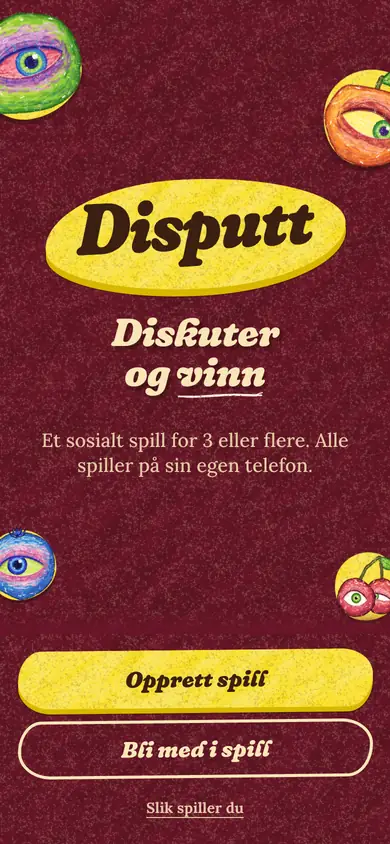
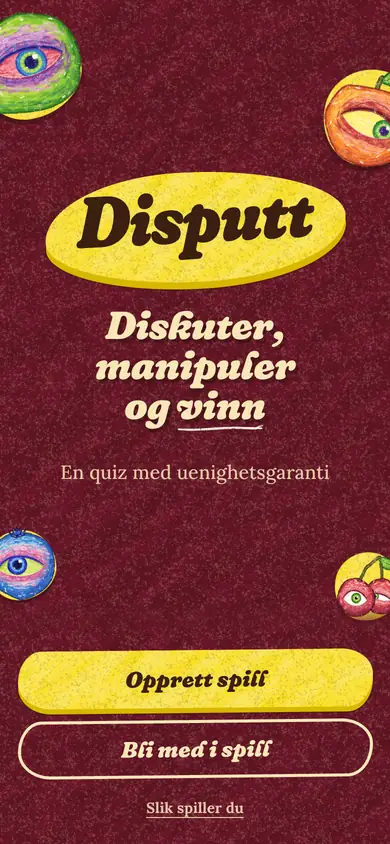
Startskjermen: «Diskuter, manipuler og vinn» og «En quiz med uenighetsgaranti»
Slagordet over knappene er nå «Diskuter, manipuler og vinn» (tre linjer, før to), og linjen under er «En quiz med uenighetsgaranti».
Setningen om at alle spiller på sin egen telefon er borte. Samme ord står i delingskortet (description, og:title og og:description i
index.html), i README og i stilguiden, og bildet av startsiden i stilguiden er tegnet på nytt. Manifestets beskrivelse er uendret.

Den tredje linjen kostet 38 px. På 375×553 sto linjen under slagordet bare 4 px over bunnlinjen (16 før), inne i fade-en. Under 580 px
høyde er slagordet derfor litt mindre (clamp(1.9rem, 8.6vw, 2.4rem)), og da er det 22 px igjen. På 390×664 er det 58 px, og ingenting
annet er endret.

npm run qa:fit har nå startskjermen med (den var ikke med før). Reglene i CSS-en ble tatt bort i en kopi: da feiler sjekken på 375×553
(2 px under bunnlinjen), og med dem består den på alle fire størrelsene. play.mjs, stuck.mjs og payflow.mjs venter på startskjermen ved
å lete etter slagordet, og leter nå etter det nye.

Kjørt: alle tester (244), qa:fit, qa:overlap på 390×664 og 375×553 (724 skjermer, bunnlinjene er fortsatt ugjennomsiktige), play:p2p,
play:pay, play:subpath og qa:stuck.

Changed region(s): [[0.0923, 0.1848, 0.8923, 0.5853], [0.8923, 0.7085, 0.9846, 0.7393]]

diff --git a/public/design-system/index.html b/public/design-system/index.html
@@ -129,7 +129,7 @@
       <div class="ds-type"><span class="ds-label">H1<br><code>--fs-h1</code></span><h1>Hvem er du?</h1></div>
       <div class="ds-type"><span class="ds-label">H2<br><code>--fs-h2</code></span><h2>Gruppa hadde rett!</h2></div>
       <div class="ds-type"><span class="ds-label">H3<br><code>--fs-h3</code></span><h3>Poengtavle</h3></div>
-      <div class="ds-type"><span class="ds-label">Ingress<br><code>.lead</code></span><p class="lead">Diskuter og vinn.</p></div>
+      <div class="ds-type"><span class="ds-label">Ingress<br><code>.lead</code></span><p class="lead">Diskuter, manipuler og vinn.</p></div>
       <div class="ds-type"><span class="ds-label">Brødtekst<br><code>--fs-body</code></span><p>Én av dere vet svaret og vil lure dere. Hvem kan du stole på? Lytt når Sofie leser spørsmålet, og diskuter dere frem til riktig svar.</p></div>
       <div class="ds-type"><span class="ds-label">Liten<br><code>.small</code></span><p class="small muted">Ett poeng tar ca. 6 minutter. Vi anbefaler minst 5 poeng for å krone en vinner.</p></div>
       <div class="ds-type"><span class="ds-label">Overskrift over felt<br><code>.eyebrow</code></span><p class="eyebrow">Les høyt for de andre</p></div>
@@ -381,7 +381,7 @@
   <section class="ds-section" id="tone">
     <header><h2>Tone</h2><p>Kort, lekent og litt uhyggelig. Vi snakker til gruppa som til venner rundt et bord. Norsk bokmål, aldri teknisk.</p></header>
     <div class="ds-grid ds-grid--wide">
-      <div class="ds-do"><strong>Slik</strong><p class="ds-note">«Diskuter og vinn.» · «Én av dere vet svaret og vil lure dere.» · «Se på hverandre!» · «Imposteren avslører seg!» · «Gruppa hadde rett!»</p></div>
+      <div class="ds-do"><strong>Slik</strong><p class="ds-note">«Diskuter, manipuler og vinn.» · «Én av dere vet svaret og vil lure dere.» · «Se på hverandre!» · «Imposteren avslører seg!» · «Gruppa hadde rett!»</p></div>
       <div class="ds-dont"><strong>Ikke slik</strong><p class="ds-note">«Operasjon feilet.» · «Ugyldig inndata.» · «Vennligst vent mens systemet behandler forespørselen.» Feilmeldinger sier hva som skjedde og hva man kan gjøre: «Det navnet er tatt – velg et annet.»</p></div>
       <div class="ds-stack"><h3>Navn på ting</h3><p class="ds-note"><strong>Imposter</strong> (han/hun som vet svaret; to fra seks spillere, og i flertall «imposterer»), <strong>lojal</strong> (alle andre), <strong>den som har spørsmålet</strong> (leser høyt og låser svaret), <strong>vert</strong> (startet spillet). Poeng, ikke «score».</p></div>
     </div>

diff --git a/public/index.html b/public/index.html
@@ -4,11 +4,11 @@
   <meta charset="utf-8">
   <meta name="viewport" content="width=device-width, initial-scale=1, viewport-fit=cover">
   <title>Disputt</title>
-  <meta name="description" content="Disputt – et sosialt bløff- og diskusjonsspill for 3 eller flere. Alle spiller på sin egen telefon.">
+  <meta name="description" content="Disputt – en quiz med uenighetsgaranti. Et sosialt bløff- og diskusjonsspill for 3 eller flere.">
   <meta property="og:type" content="website">
   <meta property="og:site_name" content="Disputt">
-  <meta property="og:title" content="Disputt – diskuter og vinn">
-  <meta property="og:description" content="Et sosialt spill for 3 eller flere. Alle spiller på sin egen telefon. Én av dere er imposter.">
+  <meta property="og:title" content="Disputt – diskuter, manipuler og vinn">
+  <meta property="og:description" content="En quiz med uenighetsgaranti. Et sosialt bløff- og diskusjonsspill for 3 eller flere. Én av dere er imposter.">
   <meta name="twitter:card" content="summary">
   <meta name="theme-color" content="#6a1428">
   <meta name="color-scheme" content="dark">

diff --git a/public/js/screens/home.js b/public/js/screens/home.js
@@ -15,8 +15,8 @@ export function Home() {
     <${Decor} />
     <div class="home__hero grow">
       <div class="pop-in"><${Logo} /></div>
-      <h1 class="home__tagline rise-in">Diskuter<br />og <span class="scribble">vinn</span></h1>
-      <p class="lead muted rise-in" style="animation-delay:.1s">Et sosialt spill for 3 eller flere. Alle spiller på sin egen telefon.</p>
+      <h1 class="home__tagline rise-in">Diskuter,<br />manipuler<br />og <span class="scribble">vinn</span></h1>
+      <p class="lead muted rise-in" style="animation-delay:.1s">En quiz med uenighetsgaranti</p>
       ${s.notice && html`<p class="card card--yellow home__notice rise-in" role="status">${s.notice}</p>`}
     </div>
     <div class="dock">

diff --git a/public/css/screens.css b/public/css/screens.css
@@ -332,6 +332,7 @@
 }
 @media (max-height: 580px) {
   .discussion__hint { display: none; } /* "who has the question" already says it; the sentence under it is the first thing to go */
+  .home__tagline { font-size: clamp(1.9rem, 8.6vw, 2.4rem); } /* three lines tall: a little smaller, so the line under it stays clear of the button bar */
 }
 /* The packages on a short screen: the three cards and the buttons are the screen. The sentence under the title goes first, then air. */
 @media (max-height: 650px) {

diff --git a/docs/DESIGN-SYSTEM.md b/docs/DESIGN-SYSTEM.md
@@ -103,7 +103,7 @@ Betaling er av som standard ([BETALING.md](BETALING.md)). Når den er på, komme
 
 ## Små skjermer
 
-En nettleser sine verktøylinjer tar 150–300 px, så en telefon viser ofte bare ca. 550–660 px høyde, ikke de 844 px skjermen har. Skjermene man skal se på et øyeblikk (rolle, nedtelling, fasit, diskusjon) må derfor få plass uten scrolling, og knappen nederst skal ikke dekke tekst. Illustrasjonene skalerer med synlig høyde (`dvh`, og `height: auto` slik at `<img height>` ikke holder av tom plass), og `screens.css` strammer inn avstander på lave skjermer. `npm run qa:fit` måler det på flere størrelser, også med lengste spørsmål og svar i banken.
+En nettleser sine verktøylinjer tar 150–300 px, så en telefon viser ofte bare ca. 550–660 px høyde, ikke de 844 px skjermen har. Skjermene man skal se på et øyeblikk (startsiden, rolle, nedtelling, fasit, diskusjon) må derfor få plass uten scrolling, og knappen nederst skal ikke dekke tekst. Illustrasjonene skalerer med synlig høyde (`dvh`, og `height: auto` slik at `<img height>` ikke holder av tom plass), og `screens.css` strammer inn avstander på lave skjermer (under 580 px høyde blir slagordet på startsiden, som har tre linjer, litt mindre). `npm run qa:fit` måler det på flere størrelser, også med lengste spørsmål og svar i banken.
 
 ## Aldri tekst oppå andre ting, aldri tekst som blir skåret av
 

diff --git a/README.md b/README.md
@@ -1,6 +1,6 @@
 # Disputt
 
-> **Diskuter og vinn.**
+> **Diskuter, manipuler og vinn.**
 
 Disputt er et sosialt bløff- og diskusjonsspill for **3–10 spillere**. Alle spiller på sin egen telefon, samlet i samme rom. Én av dere er imposter (to hvis dere er seks eller flere) og vet svaret på spørsmålet. De andre må finne ut hva som er riktig, uten å bli lurt.
 
